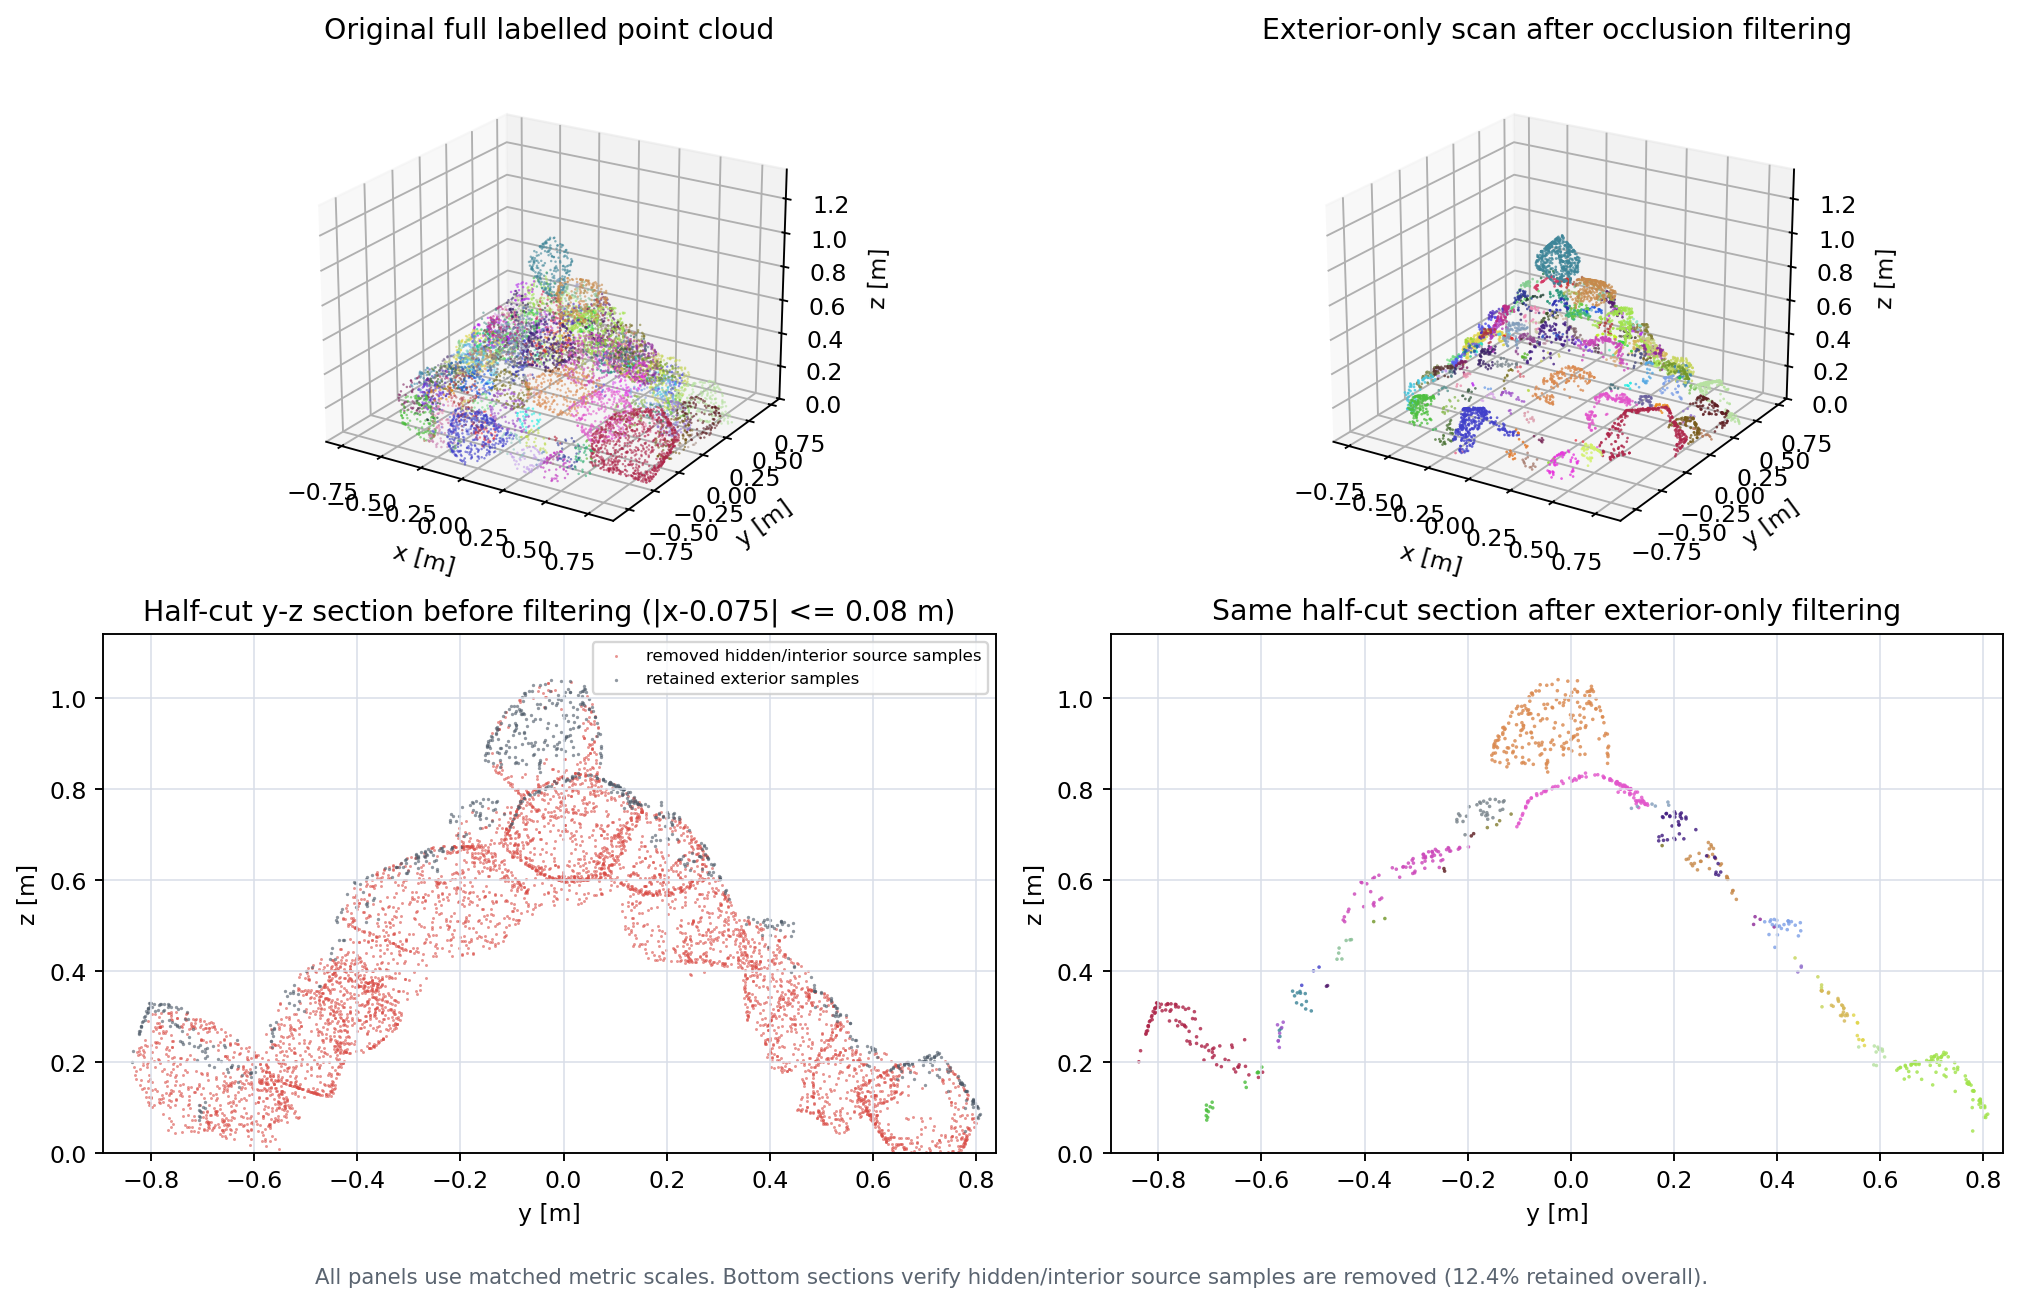
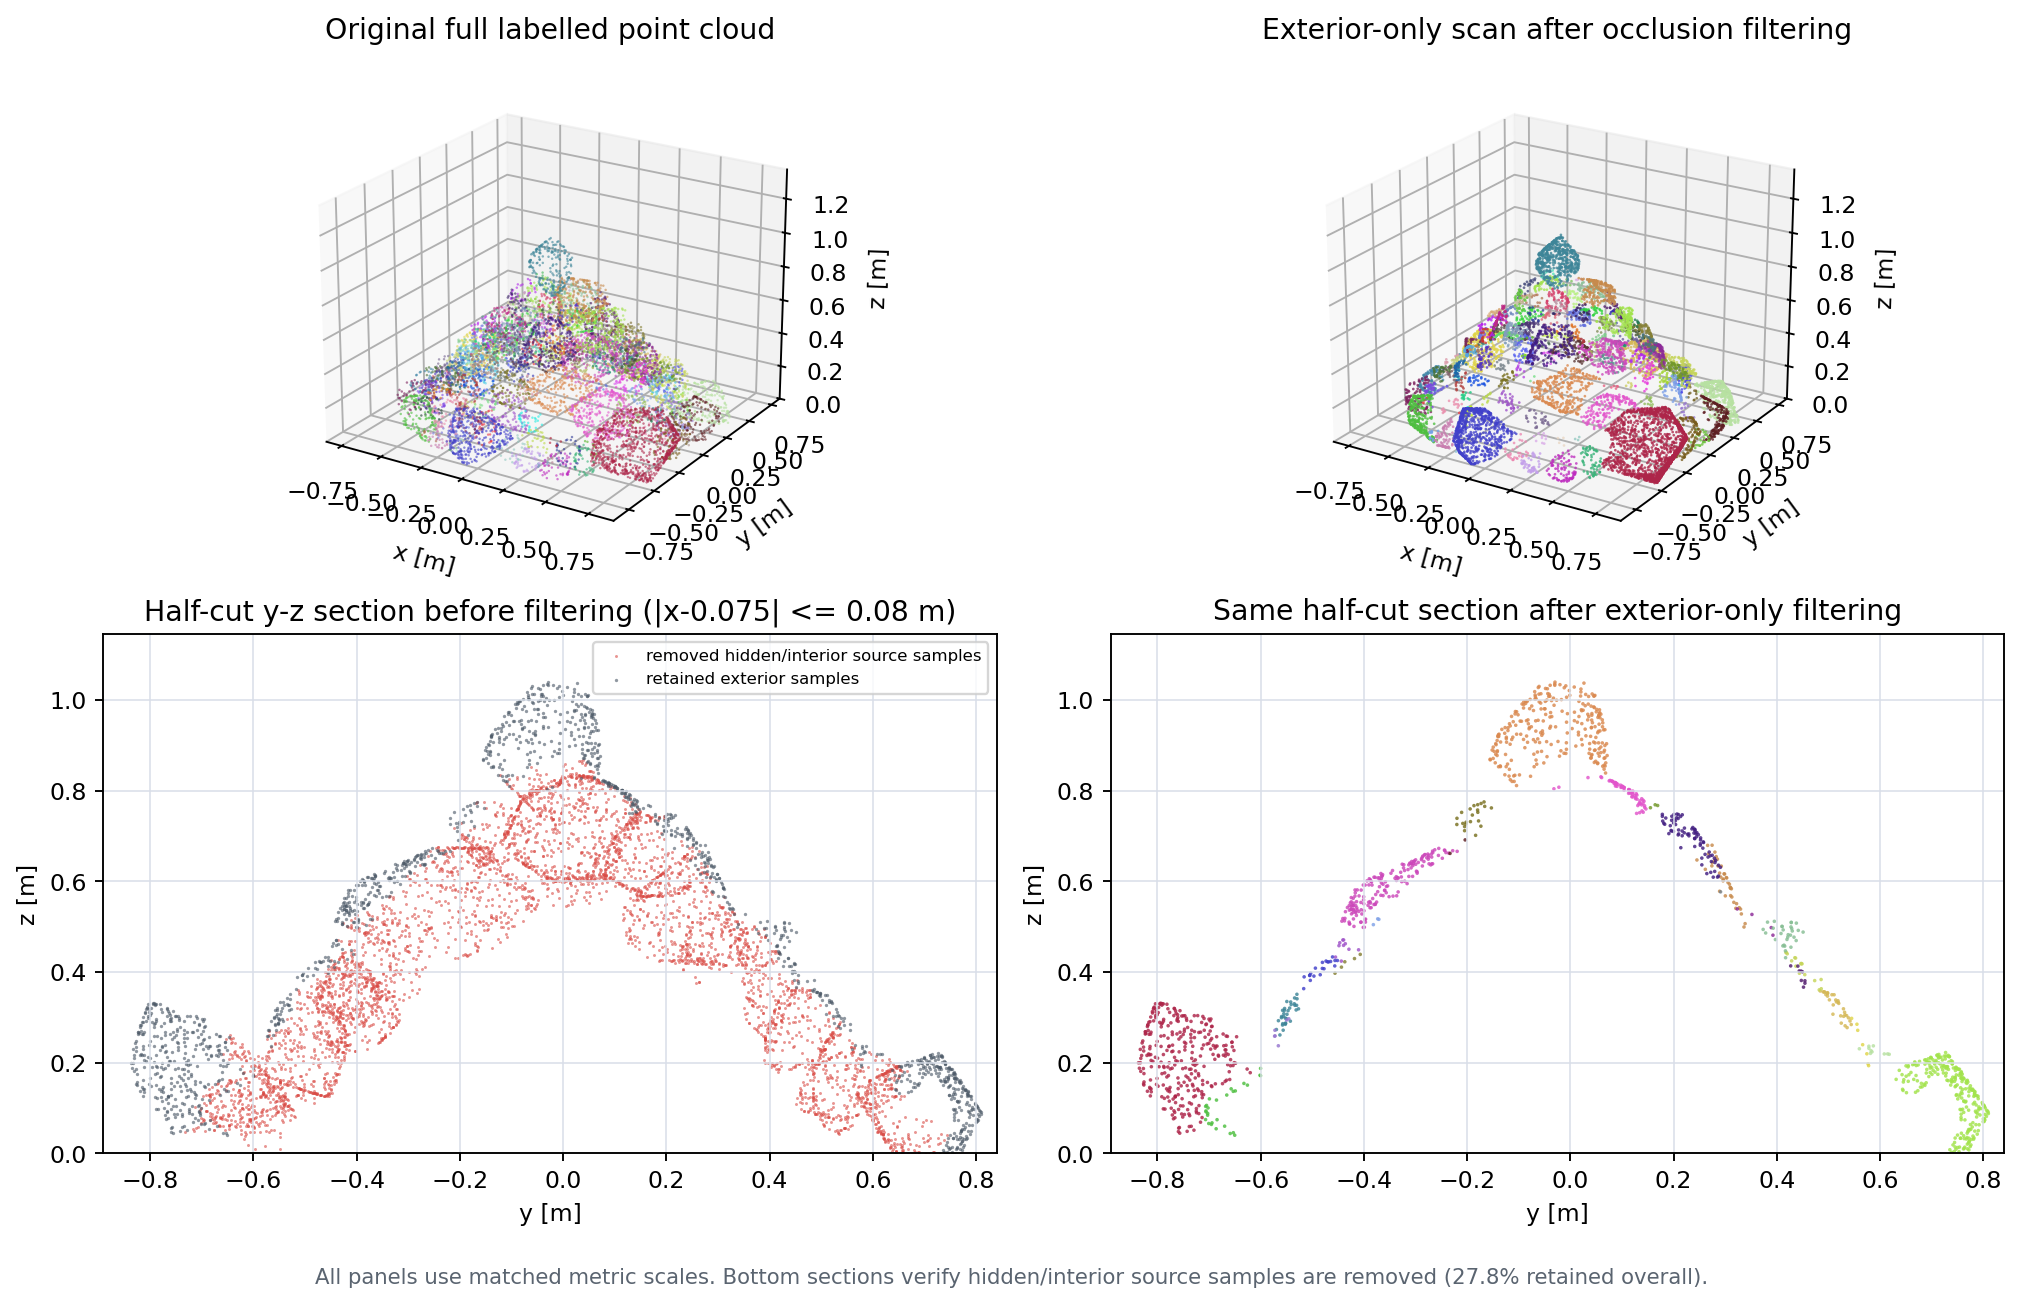
Use HPR multiview exterior filtering

diff --git a/src/data/exterior_filter.py b/src/data/exterior_filter.py
@@ -3,6 +3,7 @@
 from __future__ import annotations
 
 import numpy as np
+from scipy.spatial import ConvexHull, QhullError
 
 
 def keep_xy_height_envelope(
@@ -43,6 +44,85 @@ def keep_xy_height_envelope(
 
     kept = np.flatnonzero(keep)
     return points[kept], labels[kept], source_indices[kept]
+
+
+def hidden_point_removal_indices(
+    points_xyz: np.ndarray,
+    viewpoint_xyz: np.ndarray,
+    radius_scale: float = 100.0,
+) -> np.ndarray:
+    """Return HPR-visible point indices from one viewpoint.
+
+    This implements the spherical flipping Hidden Point Removal method from
+    Katz et al. (2007). The camera is translated to the origin, points are
+    flipped through a large sphere, and convex-hull vertices of the flipped set
+    are visible from the camera.
+    """
+
+    points = np.asarray(points_xyz, dtype=float)
+    viewpoint = np.asarray(viewpoint_xyz, dtype=float).reshape(3)
+    if len(points) == 0:
+        return np.empty(0, dtype=np.int64)
+
+    vectors = points - viewpoint[None, :]
+    ranges = np.linalg.norm(vectors, axis=1)
+    valid = ranges > 1e-12
+    if valid.sum() < 4:
+        return np.flatnonzero(valid).astype(np.int64)
+
+    valid_idx = np.flatnonzero(valid)
+    vectors_valid = vectors[valid]
+    ranges_valid = ranges[valid]
+    diameter = float(np.linalg.norm(points.max(axis=0) - points.min(axis=0)))
+    radius = max(float(radius_scale) * max(diameter, 1e-6), float(ranges_valid.max()) * 1.01)
+    flipped = vectors_valid + 2.0 * (radius - ranges_valid)[:, None] * (vectors_valid / ranges_valid[:, None])
+    augmented = np.vstack([flipped, np.zeros(3, dtype=float)])
+
+    try:
+        hull = ConvexHull(augmented, qhull_options="QJ")
+    except QhullError:
+        return np.empty(0, dtype=np.int64)
+
+    vertices = np.asarray(hull.vertices, dtype=np.int64)
+    visible_local = vertices[vertices < len(vectors_valid)]
+    return valid_idx[np.unique(visible_local)].astype(np.int64)
+
+
+def exterior_points_from_hpr_viewpoints(
+    points_xyz: np.ndarray,
+    labels: np.ndarray,
+    viewpoint_xyz_list: np.ndarray,
+    radius_scale: float = 100.0,
+    height_envelope_grid_m: float | None = None,
+    height_envelope_tolerance_m: float = 0.030,
+) -> tuple[np.ndarray, np.ndarray, np.ndarray]:
+    """Keep points visible from at least one viewpoint using HPR.
+
+    The default is HPR-only because an XY top envelope can incorrectly erase
+    legitimate side-visible points on a muckpile slope. A mild height envelope
+    remains available for controlled ablations.
+    """
+
+    points = np.asarray(points_xyz, dtype=float)
+    labels = np.asarray(labels)
+    viewpoints = np.asarray(viewpoint_xyz_list, dtype=float)
+    visible_mask = np.zeros(len(points), dtype=bool)
+    for viewpoint in viewpoints:
+        visible_idx = hidden_point_removal_indices(points, viewpoint, radius_scale=radius_scale)
+        visible_mask[visible_idx] = True
+
+    visible_idx = np.flatnonzero(visible_mask).astype(np.int64)
+    exterior_points = points[visible_idx]
+    exterior_labels = labels[visible_idx]
+    if height_envelope_grid_m is not None:
+        return keep_xy_height_envelope(
+            exterior_points,
+            exterior_labels,
+            source_indices=visible_idx,
+            grid_resolution_m=height_envelope_grid_m,
+            z_tolerance_m=height_envelope_tolerance_m,
+        )
+    return exterior_points, exterior_labels, visible_idx
 
 
 def exterior_points_from_viewpoints(
@@ -160,8 +240,8 @@ def exterior_points_from_viewpoints(
     return exterior_points, exterior_labels, visible_idx
 
 
-def default_viewpoints(points_xyz: np.ndarray, margin: float = 1.0) -> np.ndarray:
-    """Create four side viewpoints and one overhead viewpoint around a pile."""
+def default_viewpoints(points_xyz: np.ndarray, margin: float = 1.0, n_side: int = 8) -> np.ndarray:
+    """Create a ring of side viewpoints plus one overhead viewpoint around a pile."""
 
     points = np.asarray(points_xyz, dtype=float)
     center = points.mean(axis=0)
@@ -169,13 +249,13 @@ def default_viewpoints(points_xyz: np.ndarray, margin: float = 1.0) -> np.ndarra
     r = float(max(span[0], span[1]) * 1.8 + margin)
     z_mid = float(center[2] + 0.35 * span[2])
     z_top = float(points[:, 2].max() + r)
-    return np.array(
+    angles = np.linspace(0.0, 2.0 * np.pi, max(4, int(n_side)), endpoint=False)
+    side = np.column_stack(
         [
-            [center[0] + r, center[1], z_mid],
-            [center[0] - r, center[1], z_mid],
-            [center[0], center[1] + r, z_mid],
-            [center[0], center[1] - r, z_mid],
-            [center[0], center[1], z_top],
-        ],
-        dtype=float,
+            center[0] + r * np.cos(angles),
+            center[1] + r * np.sin(angles),
+            np.full(len(angles), z_mid),
+        ]
     )
+    overhead = np.array([[center[0], center[1], z_top]], dtype=float)
+    return np.vstack([side, overhead]).astype(float)

diff --git a/scripts/diagnose_exterior_filter.py b/scripts/diagnose_exterior_filter.py
@@ -14,7 +14,7 @@ ROOT = Path(__file__).resolve().parents[1]
 sys.path.insert(0, str(ROOT))
 
 from scripts.regenerate_multi_scene_dataset import BASE_SEED, DEM_PRESETS  # noqa: E402
-from src.data.exterior_filter import default_viewpoints, exterior_points_from_viewpoints  # noqa: E402
+from src.data.exterior_filter import default_viewpoints, exterior_points_from_hpr_viewpoints, exterior_points_from_viewpoints  # noqa: E402
 from src.data.synthetic_piles import generate_physics_informed_dem_scene, load_fragment_catalog  # noqa: E402
 
 
@@ -137,7 +137,7 @@ def main() -> None:
         height_envelope_tolerance_m=0.030,
         height_envelope_mode="top_only",
     )
-    new_points, new_labels, _ = exterior_points_from_viewpoints(
+    depth_points, depth_labels, _ = exterior_points_from_viewpoints(
         full_points,
         full_labels,
         viewpoints,
@@ -148,24 +148,22 @@ def main() -> None:
         height_envelope_tolerance_m=0.030,
         height_envelope_mode="preserve_side_visible",
     )
-    exterior_points, exterior_labels, exterior_source_idx = exterior_points_from_viewpoints(
+    exterior_points, exterior_labels, exterior_source_idx = exterior_points_from_hpr_viewpoints(
         full_points,
         full_labels,
         viewpoints,
-        angular_resolution_deg=0.24,
-        range_tolerance_m=0.012,
-        occlusion_neighbor_bins=2,
-        height_envelope_grid_m=0.035,
-        height_envelope_tolerance_m=0.030,
-        height_envelope_mode="preserve_side_visible",
+        radius_scale=100.0,
+        height_envelope_grid_m=None,
     )
+    new_points, new_labels = exterior_points, exterior_labels
 
     summary = pd.DataFrame(
         [
             summarize("full sampled surface", full_points, full_labels, full_labels),
             summarize("viewpoint visible only", view_points, view_labels, full_labels),
             summarize("old top-only envelope", old_points, old_labels, full_labels),
-            summarize("new depth-buffer exterior", new_points, new_labels, full_labels),
+            summarize("aggressive depth-buffer exterior", depth_points, depth_labels, full_labels),
+            summarize("new HPR multiview exterior", new_points, new_labels, full_labels),
         ]
     )
     summary_path = TABLE_DIR / f"exterior_filter_diagnostic_scene{args.scene_id:03d}.csv"
@@ -175,7 +173,7 @@ def main() -> None:
         ("A. Full sampled surface", full_points, full_labels),
         ("B. Viewpoint visible", view_points, view_labels),
         ("C. Old top-only envelope", old_points, old_labels),
-        ("D. New depth-buffer exterior", new_points, new_labels),
+        ("D. New HPR multiview exterior", new_points, new_labels),
     ]
     fig = plt.figure(figsize=(14, 10), dpi=170)
     for i, (title, points, labels) in enumerate(panels, start=1):
@@ -184,7 +182,7 @@ def main() -> None:
         ax.scatter(pts[:, 0], pts[:, 1], pts[:, 2], c=label_colors(labs), s=1.4, alpha=0.78, linewidths=0)
         ax.set_title(f"{title}\n{len(points):,} points, {len(np.unique(labels))} fragments")
         set_equal_3d(ax, full_points)
-    fig.suptitle("Exterior filter diagnostic: old top-only envelope vs side-preserving envelope", y=0.98)
+    fig.suptitle("Exterior filter diagnostic: angular envelope vs HPR multiview visibility", y=0.98)
     fig.tight_layout(rect=(0, 0, 1, 0.96))
     fig_path = OUT_DIR / f"exterior_filter_diagnostic_scene{args.scene_id:03d}.png"
     fig.savefig(fig_path, bbox_inches="tight")
@@ -195,7 +193,7 @@ def main() -> None:
         ("A. Full sampled surface, half cut", full_points, full_labels),
         ("B. Viewpoint visible, half cut", view_points, view_labels),
         ("C. Old top-only envelope, half cut", old_points, old_labels),
-        ("D. New depth-buffer exterior, half cut", new_points, new_labels),
+        ("D. New HPR multiview exterior, half cut", new_points, new_labels),
     ]
     fig = plt.figure(figsize=(14, 10), dpi=170)
     for i, (title, points, labels) in enumerate(section_panels, start=1):

diff --git a/scripts/regenerate_multi_scene_dataset.py b/scripts/regenerate_multi_scene_dataset.py
@@ -13,7 +13,7 @@ import pandas as pd
 PROJECT_ROOT = Path(__file__).resolve().parents[1]
 sys.path.insert(0, str(PROJECT_ROOT))
 
-from src.data.exterior_filter import default_viewpoints, exterior_points_from_viewpoints
+from src.data.exterior_filter import default_viewpoints, exterior_points_from_hpr_viewpoints
 from src.data.synthetic_piles import (
     generate_chrono_dem_scene,
     generate_synthetic_rockpile_v1_scene,
@@ -32,7 +32,7 @@ TABLE_DIR = PROJECT_ROOT / "outputs" / "tables"
 N_FRAGMENTS_PER_SCENE = 220
 TOTAL_SURFACE_POINTS = 42_000
 BASE_SEED = 20260525
-FILTER_VERSION = "angular_depthbuffer_plus_xy_height_envelope_preserve_side_visible"
+FILTER_VERSION = "hpr_multiview_exterior"
 
 
 DEM_PRESETS = {
@@ -414,16 +414,12 @@ def generate_scene(
     else:
         raise ValueError(f"Unknown placement backend: {placement_backend}")
     viewpoints = default_viewpoints(full_points, margin=0.8)
-    exterior_points, exterior_labels, visible_idx = exterior_points_from_viewpoints(
+    exterior_points, exterior_labels, visible_idx = exterior_points_from_hpr_viewpoints(
         full_points,
         full_labels,
         viewpoints,
-        angular_resolution_deg=0.24,
-        range_tolerance_m=0.012,
-        occlusion_neighbor_bins=2,
-        height_envelope_grid_m=0.035,
-        height_envelope_tolerance_m=0.030,
-        height_envelope_mode="preserve_side_visible",
+        radius_scale=100.0,
+        height_envelope_grid_m=None,
     )
 
     exterior_points = exterior_points.astype(np.float32)
@@ -462,12 +458,10 @@ def generate_scene(
         ground_truth_P80_mm=np.array([gt_p80]),
         cone_base_radius_m=np.array([cone_geometry["base_radius_m"]]),
         cone_height_m=np.array([cone_geometry["pile_height_m"]]),
-        angular_resolution_deg=np.array([0.24]),
-        range_tolerance_m=np.array([0.012]),
-        occlusion_neighbor_bins=np.array([2]),
-        height_envelope_grid_m=np.array([0.035]),
-        height_envelope_tolerance_m=np.array([0.030]),
-        height_envelope_mode=np.array(["preserve_side_visible"]),
+        hpr_radius_scale=np.array([100.0]),
+        height_envelope_grid_m=np.array([np.nan]),
+        height_envelope_tolerance_m=np.array([np.nan]),
+        height_envelope_mode=np.array(["none"]),
         density_keep_fraction=np.array([keep_prob]),
         scan_filter_version=np.array([FILTER_VERSION]),
         dataset_tag=np.array([dataset_tag]),

diff --git a/scripts/retrain_and_evaluate_edgeconv.py b/scripts/retrain_and_evaluate_edgeconv.py
@@ -42,6 +42,7 @@ ACCEPTED_SCAN_FILTER_VERSIONS = {
     "angular_nearest_plus_xy_height_envelope",
     "angular_nearest_plus_xy_height_envelope_preserve_side_visible",
     "angular_depthbuffer_plus_xy_height_envelope_preserve_side_visible",
+    "hpr_multiview_exterior",
 }
 
 ABSORB_KWARGS = {
@@ -266,7 +267,7 @@ def train_model(args: argparse.Namespace, device: torch.device, train_rows: pd.D
             "model_state_dict": best_state,
             "best_epoch": best_epoch,
             "best_val_ap": best_val_ap,
-            "scan_filter_version": "angular_depthbuffer_plus_xy_height_envelope_preserve_side_visible",
+            "scan_filter_version": "hpr_multiview_exterior",
             "training_args": training_args,
         },
         OUT_MODELS / "edgeconv_affinity.pt",
@@ -589,7 +590,7 @@ def main() -> None:
     write_test_error_histogram(test_results, selected_variant)
 
     metadata = {
-        "scan_filter_version": "angular_depthbuffer_plus_xy_height_envelope_preserve_side_visible",
+        "scan_filter_version": "hpr_multiview_exterior",
         "selected_variant": selected_variant,
         "selected_threshold": selected_threshold,
         "selected_bridge_probability": selected_bridge_probability,

diff --git a/README.md b/README.md
@@ -69,8 +69,10 @@ fragmentation monitoring system.
 ## Exterior Filter Update
 
 The exterior scan filter was updated after diagnosing that the previous global
-top-envelope cleanup removed visible side/slope points while sparse angular
-visibility bins could still leak hidden interior points. The new depth-buffer
-visibility pass checks neighbouring angular bins to close pinholes, then keeps a
-thin exterior shell. See `results/figures/exterior_filter_section_scan_scene000.png`
-for the photogrammetry-style half-section diagnostic.
+top-envelope cleanup removed visible side/slope points, while the later angular
+depth-buffer variant removed too much true exterior shell. The current
+regeneration path uses multi-view Hidden Point Removal (HPR): visible points are
+computed from an eight-view side camera ring and one overhead camera using spherical flipping
+and convex-hull visibility, then unioned into a photogrammetry-like exterior
+scan. See `results/figures/exterior_filter_section_scan_scene000.png` for the
+half-section diagnostic.

diff --git a/data/README.md b/data/README.md
@@ -13,10 +13,11 @@ large. The committed files include:
   `results/figures/exterior_filter_section_scan_scene000.png`, and
   `results/tables/exterior_filter_diagnostic_scene000.csv`
 
-The exterior filter now uses a small angular depth-buffer neighbourhood to close
-sparse point-cloud pinholes that can otherwise retain hidden/interior fragment
-surfaces. Newly generated scenes are marked with
-`angular_depthbuffer_plus_xy_height_envelope_preserve_side_visible`.
+The exterior filter now uses multi-view Hidden Point Removal (HPR) rather than
+the angular depth-buffer ablation. HPR keeps points visible from at least one of
+the side/overhead scan viewpoints and avoids the top-envelope failure mode that
+can delete true side-visible pile surfaces. Newly generated scenes are marked
+with `hpr_multiview_exterior`.
 
 To regenerate the dataset, place or generate the Synthetic_Rockpile fragment
 catalog and set the input paths if they differ from the author's workstation: